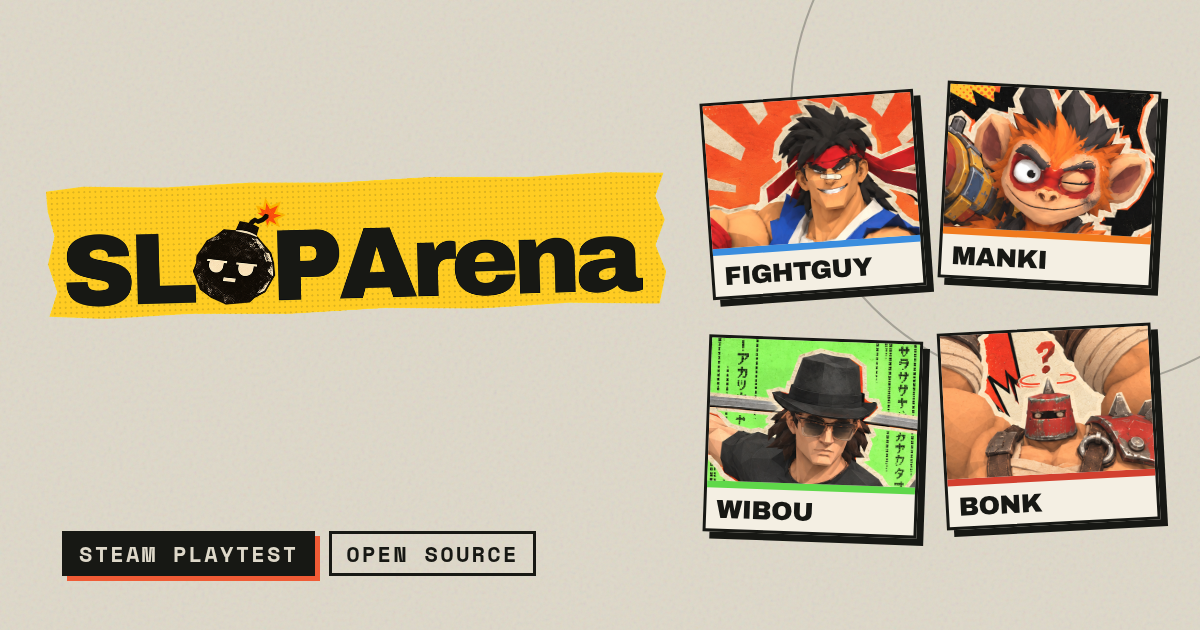
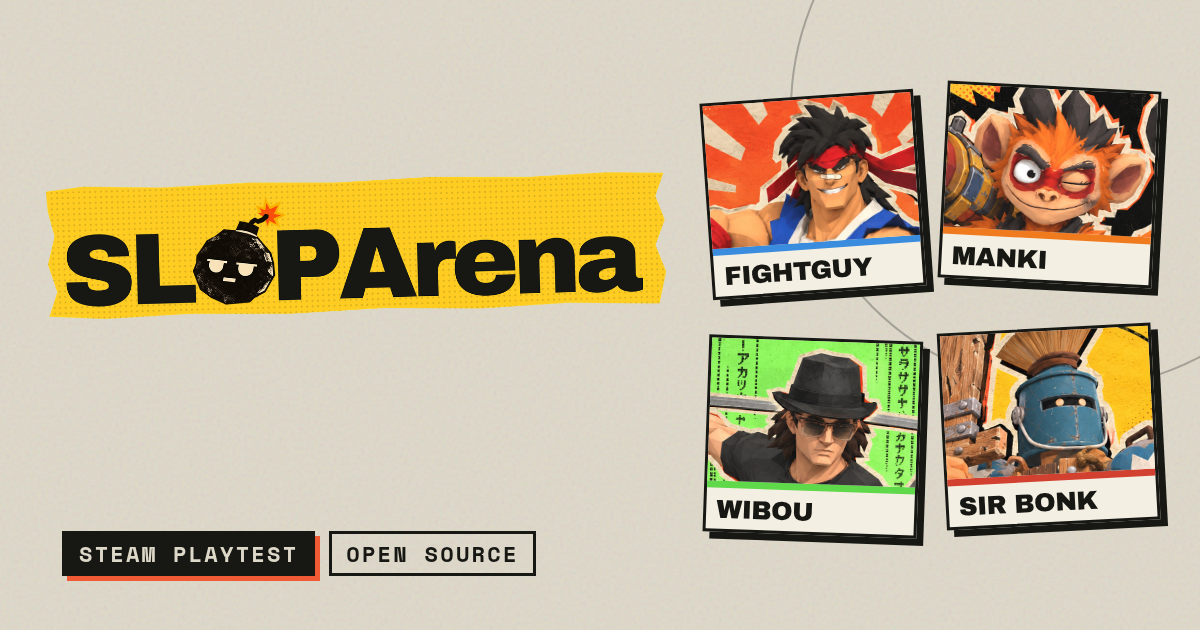
docs: describe the seven-fighter site and refresh the share card
README, PRODUCT.md and DESIGN.md now describe seven fighters, seven
stages, the new trailer and the WIP flag. How it's made states the
current six-normal grid. The social preview keeps its four-card layout
but is regenerated with the Sir Bonk portrait.

Changed region(s): [[0.7708, 0.5127, 0.9867, 0.8143]]

diff --git a/scripts/social-preview.html b/scripts/social-preview.html
@@ -40,7 +40,7 @@
     <div class="card" style="--accent:#3a8dde"><img src="../src/assets/fighters/fightguy-portrait.png" alt="" /><b>FIGHTGUY</b></div>
     <div class="card" style="--accent:#f07a1e"><img src="../src/assets/fighters/manki-portrait.png" alt="" /><b>MANKI</b></div>
     <div class="card" style="--accent:#5fd84a"><img src="../src/assets/fighters/wibou-portrait.png" alt="" /><b>WIBOU</b></div>
-    <div class="card" style="--accent:#d2402f"><img src="../src/assets/fighters/bonk-portrait.png" alt="" /><b>BONK</b></div>
+    <div class="card" style="--accent:#d2402f"><img src="../src/assets/fighters/bonk-portrait.png" alt="" /><b>SIR BONK</b></div>
   </div>
 </body>
 </html>

diff --git a/PRODUCT.md b/PRODUCT.md
@@ -32,15 +32,15 @@ SLOPArena is a transparent, solo-developed, open-source pre-alpha built with AI 
 
 - The product is a small, chaotic free 3D online platform fighter for friends.
 - The public experience supports English and French, including automatic language selection and a persistent manual switch.
-- The roster on the site is FightGuy, Manki, Wibou and Bonk, with kits, cooldowns and movement copied from the game's character packages; the snapshot date lives in `src/data/fighters.ts`.
+- The roster on the site is FightGuy, Manki, Wibou, Sir Bonk, Bashie, Salamander and Nyx (Bashie, Salamander and Nyx tagged work in progress), with kits, cooldowns and movement copied from the game's character packages; the snapshot date lives in `src/data/fighters.ts`.
 - The primary CTA links to the Steam store page and explains access by request. Do not invent download routes or claim instant access.
-- The feedback flow requires only a nonblank message; blank name means anonymous, a topic is optional, four ratings can be unselected, scored, or explicitly marked `notTried`, and the favorite fighter covers all four fighters.
+- The feedback flow requires only a nonblank message; blank name means anonymous, a topic is optional, four ratings can be unselected, scored, or explicitly marked `notTried`, and the favorite fighter covers every fighter on the roster.
 - The site must remain usable when live presence is unavailable.
 - The project is an Astro static site deployed through Cloudflare Pages at https://playsloparena.com, with a Pages Function and D1 for feedback. Docs are Markdown in `src/content/docs/<lang>/`; a missing French page falls back to English.
 
 ## Brand Commitments
 
-Preserve the SLOPArena name (player-facing spelling; shorthand SLOPA), the four fighters, the candid early-playtest status, and self-aware humor about questionable balance. The shared visual north star is “Low-poly underground toy-fight-club, with DIY internet-game energy”: chunky low-poly forms, exaggerated silhouettes, curated asset-pack collage, and toy as scavenged construction—not literal plastic or mandatory cuteness. Be cool first, joke second, slightly crappy on purpose, and extremely readable. Use Action Yellow `#FFCC22` for graphic primary actions and selection; preserve character/team colors and blue specials. Archivo Black is the shared name-mark and native menu display voice; keep Archivo Black + Space Mono for marketing, with readable sans-serif for dense HUD/settings. Preserve character identity, proportions, and chunky model forms in art. Adapt the graphic treatment to the setting rather than forcing warehouse stages or decoration-only generic grit.
+Preserve the SLOPArena name (player-facing spelling; shorthand SLOPA), the roster, the candid early-playtest status, and self-aware humor about questionable balance. The shared visual north star is “Low-poly underground toy-fight-club, with DIY internet-game energy”: chunky low-poly forms, exaggerated silhouettes, curated asset-pack collage, and toy as scavenged construction—not literal plastic or mandatory cuteness. Be cool first, joke second, slightly crappy on purpose, and extremely readable. Use Action Yellow `#FFCC22` for graphic primary actions and selection; preserve character/team colors and blue specials. Archivo Black is the shared name-mark and native menu display voice; keep Archivo Black + Space Mono for marketing, with readable sans-serif for dense HUD/settings. Preserve character identity, proportions, and chunky model forms in art. Adapt the graphic treatment to the setting rather than forcing warehouse stages or decoration-only generic grit.
 
 The website flyer is the strongest existing graphic reference. Source hierarchy: usability/readability first; shared guide `../SlopArena/docs/design/visual-language.md` is brand authority, art conventions owns 3D/assets, this local DESIGN document realizes the website surface, and `.impeccable/design.json` mirrors it rather than acting as a separate guide. The website now ships Action Yellow and the Archivo family; native UI migration is tracked in the game repository.
 
@@ -49,14 +49,14 @@ Preserve the free 3D fighter pitch, real gameplay media, bilingual copy, video, 
 ## Evidence on Hand
 
 - `src/assets/fighters/*-portrait.png`: the game's illustrated fighter portraits (from the Unity client's `Resources/UI/Portraits`), also used as Steam key art.
-- `src/assets/screens/`: five gameplay screenshots published on the Steam store page.
-- `src/assets/stages/`: stage-select previews of the six curated PvP stages.
-- `https://youtu.be/LFdEtBUN6wU`: “SLOPArena Playtest OUT !!!”, embedded on the home page behind a click-to-load facade.
+- `src/assets/screens/`: real gameplay stills from the Steam store shoot, the 2026-10-28 promo clips and in-game captures; sources in its README.
+- `src/assets/stages/`: stage-select previews of the seven PvP picker stages.
+- `https://youtu.be/2_6SbaZ5sA8`: “SLOPArena Playtest Trailer” (16:9, 2026-10-28), embedded on the home page behind a click-to-load facade.
 - `src/views/` and `src/data/`: complete English and French copy, roster data, access, controls and feedback content.
 - `README.md`: development, deployment, Steam, feedback, and presence behavior.
 - `src/lib/feedback.js` and `functions/api/feedback.js`: strict v3 feedback record contract and D1 storage.
 - There is no committed testimonial, player count, benchmark, press quote, pricing plan, or other third-party proof. Future work must not fabricate these.
-- `public/social-preview.png`: 1200×630 language-neutral share card with the name plate and the four portraits, generated from `scripts/social-preview.html`.
+- `public/social-preview.png`: 1200×630 language-neutral share card with the name plate and four of the portraits (FightGuy, Manki, Wibou, Sir Bonk), generated from `scripts/social-preview.html`.
 
 ## Product Principles
 

diff --git a/README.md b/README.md
@@ -1,6 +1,6 @@
 # SLOPArena Web
 
-The bilingual (English/French) website for SLOPArena, a free 3D platform fighter in early playtest: what the game is, the four fighters, how to get in and play, a feedback form, and docs about how the game is made.
+The bilingual (English/French) website for SLOPArena, a free 3D platform fighter in early playtest: what the game is, the seven fighters, how to get in and play, a feedback form, and docs about how the game is made.
 
 SLOPArena has a public [Steam store page](https://store.steampowered.com/app/5324910/) (app `5324910`, listed as coming soon, wishlistable) with a limited **Steam Playtest** (app `5325920`). Players request access on the store page and Steam emails them when they are let in. The 2026-10-04 rollout activated `0.2.0-playtest.5` on the Playtest default branch, BuildID `25702912`, alongside the compatible VPS backend; release and backend proof lives in the game repository's [`docs/testing.md`](https://github.com/Binoui/SLOPArena/blob/main/docs/testing.md).
 
@@ -39,14 +39,16 @@ To add a doc, drop `src/content/docs/en/<slug>.md` (and optionally `fr/<slug>.md
 Fighter move names, cooldowns and movement numbers are copied from each package's `character.json` in the game repository (snapshot date in `src/data/fighters.ts`). Update them when kits change.
 
 The portraits match the game’s current roster art. Gameplay images come from the
-18 October store shoot and the latest **New this patch** video; their sources are
-recorded in [`src/assets/screens/README.md`](src/assets/screens/README.md).
+18 October store shoot, the 28 October promo clips and later in-game captures; their
+sources are recorded in [`src/assets/screens/README.md`](src/assets/screens/README.md).
+Fighters still being built carry `wip: true` in `src/data/fighters.ts`, mirroring the
+game’s `MenuRoster.IsWorkInProgress`.
 
 First-time French browsers are redirected to the French pages; after that the manual EN/FR switch wins and is remembered.
 
 ## Feedback API
 
-The form submits `{language, name, message, ratings, favoriteCharacter, topic}` as JSON to same-origin `POST /api/feedback`. A nonblank message (up to 2000 characters) is required; name is optional (blank means anonymous). Each of the four rating values is an integer from 1 to 5, `null` (unanswered) or `"notTried"`. `favoriteCharacter` is `fightguy`, `manki`, `wibou`, `bonk`, `none`, `unsure` or `null`. `topic` is optional: `bug`, `balance`, `love`, `idea`, `other` or `null`.
+The form submits `{language, name, message, ratings, favoriteCharacter, topic}` as JSON to same-origin `POST /api/feedback`. A nonblank message (up to 2000 characters) is required; name is optional (blank means anonymous). Each of the four rating values is an integer from 1 to 5, `null` (unanswered) or `"notTried"`. `favoriteCharacter` is one of the fighter ids in `fighterIds` (`src/lib/feedback.js`: `fightguy`, `manki`, `wibou`, `bonk`, `bashie`, `salamander`, `nyx`), `none`, `unsure` or `null`. `topic` is optional: `bug`, `balance`, `love`, `idea`, `other` or `null`.
 
 The shared validator in `src/lib/feedback.js` rejects unknown fields and preserves the previous API's version 3 record format, including `receivedAt`, `anonymous` and `questionnaireVersion`. Reports from older pages without `topic` are still accepted and stored with `topic: null`. Bodies over 32 KiB are rejected. Successful submissions return HTTP 201 `{ "ok": true }`; invalid submissions return 400 and database failures return 500.
 

diff --git a/DESIGN.md b/DESIGN.md
@@ -150,7 +150,7 @@ The flyer palette uses warm stock and structural ink, with Action Yellow for gra
 
 The site is multi-page: Home, Fighters (index and one brief per fighter), How to play, Feedback and Docs, in English at the root and French under `/fr/`. Pages alternate full-bleed structural bands (paper, an ink stage band, an orange feedback band) with a content frame capped at 1180px and section padding of roughly 64–118px.
 
-The home hero is a two-column poster: a tape strip, the torn Action Yellow name plate, the pitch and the Steam CTA on the left; a tilted gameplay screenshot with an orange print offset, a “not a render” sticker and four fanned fighter cards on the right. Below it come the live-presence band, the trailer with four pillars and a screenshot strip, the roster, the stage wall, the three access steps, the feedback band and the docs teaser. Fighter briefs pair a large portrait card with the name, epithet, pitch, tags and actions, then game plan, strengths and weaknesses, specials, normals, movement bars and an in-game screenshot. Docs use a sticky sidebar beside a 72-character prose column.
+The home hero is a two-column poster: a tape strip, the torn Action Yellow name plate, the pitch and the Steam CTA on the left; a tilted gameplay screenshot with an orange print offset, a “not a render” sticker and a fan of small cards for the whole roster on the right. Below it come the live-presence band, the trailer with four pillars and a screenshot strip, the roster, the stage wall, the three access steps, the feedback band and the docs teaser. Fighter briefs pair a large portrait card with the name, epithet, pitch, tags and actions, then game plan, strengths and weaknesses, specials, normals, movement bars and an in-game screenshot. Docs use a sticky sidebar beside a 72-character prose column.
 
 At 900px and below, grids become single-column. At 760px and below the header becomes two rows (mark, Steam and language; then a scrollable nav) and stops being sticky. At 600px and below fighter cards turn horizontal, stages use two columns, the hero cards sit in a row under the screenshot and the decorative circle disappears. The 390px layouts have no horizontal overflow.
 

diff --git a/src/content/docs/fr/how-its-made.md b/src/content/docs/fr/how-its-made.md
@@ -10,7 +10,7 @@ SLOPArena est fait par un seul développeur, en public, avec beaucoup d’aide d
 
 ## La boucle
 
-1. **Concevoir un kit.** Chaque combattant commence par une courte doc de design : qui il est, comment il gagne, ce qu’il fait mal. Tous les kits tiennent dans la même grille de huit coups normaux et quatre spéciales. Voir les [principes de design des kits ↗](https://github.com/Binoui/SLOPArena/blob/main/docs/characters/character-kit-design-principles.md) (en anglais).
+1. **Concevoir un kit.** Chaque combattant commence par une courte doc de design : qui il est, comment il gagne, ce qu’il fait mal. Tous les kits tiennent dans la même grille de six coups normaux (trois touches, au sol et en l’air) et quatre spéciales. Voir les [principes de design des kits ↗](https://github.com/Binoui/SLOPArena/blob/main/docs/characters/character-kit-design-principles.md) (en anglais).
 2. **Écrire un package de personnage.** Un combattant est un package : `character.json` contient le gameplay, un catalogue d’assets relie le modèle et les animations. Ces fichiers servent à l’édition, jamais à ce que le jeu exécute réellement.
 3. **Régler dans Ability Lab.** Un outil Unity fait défiler un coup image par image et affiche les vraies hitbox et hurtbox, calculées par le même code que le serveur. Ce que vous voyez dans le Lab, c’est ce que le serveur calculera.
 4. **Le « cuire ».** Un compilateur transforme le package en artefact immuable et hashé. Chaque match fige les versions et les hashes exacts : le jeu et le serveur sont toujours d’accord sur ce que fait un coup.

diff --git a/src/content/docs/en/how-its-made.md b/src/content/docs/en/how-its-made.md
@@ -10,7 +10,7 @@ SLOPArena is made by one developer, in public, with a lot of help from AI coding
 
 ## The loop
 
-1. **Design a kit.** Every fighter starts as a short design doc: who they are, how they win, what they’re bad at. Every kit fits the same grid of eight normals and four specials. See the [kit design principles ↗](https://github.com/Binoui/SLOPArena/blob/main/docs/characters/character-kit-design-principles.md).
+1. **Design a kit.** Every fighter starts as a short design doc: who they are, how they win, what they’re bad at. Every kit fits the same grid of six normals (three keys, on the ground and in the air) and four specials. See the [kit design principles ↗](https://github.com/Binoui/SLOPArena/blob/main/docs/characters/character-kit-design-principles.md).
 2. **Author a character package.** A fighter is a package: `character.json` holds the gameplay, an asset catalog binds the model and animations. Those files are editing input, never what the game actually runs.
 3. **Tune it in Ability Lab.** A Unity tool scrubs a move frame by frame and shows the real hitboxes and hurtboxes, computed by the same code the server uses. What you see in the Lab is what the server will compute.
 4. **Cook it.** A compiler turns the package into an immutable, hashed artifact. Matches pin exact versions and hashes, so the game and the server always agree on what a move does.
